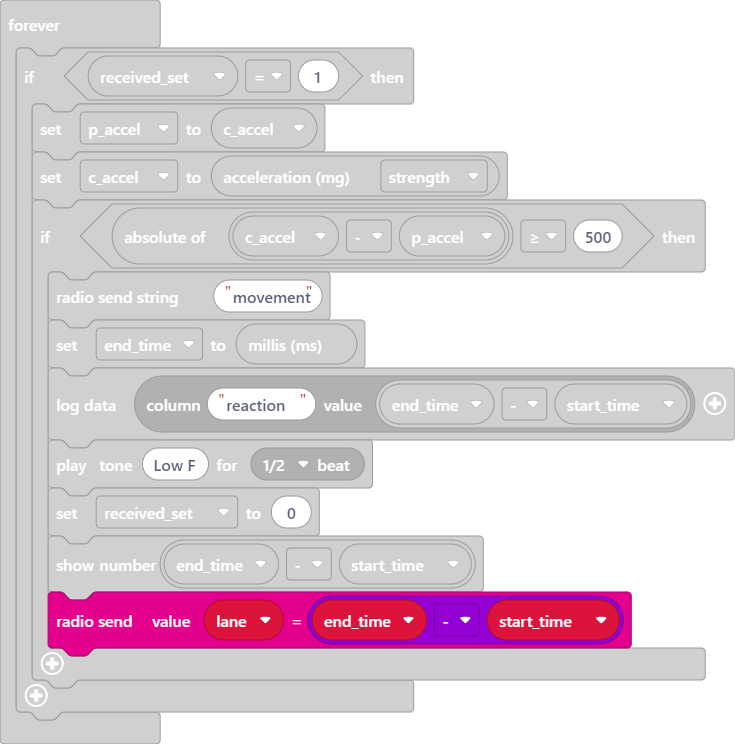
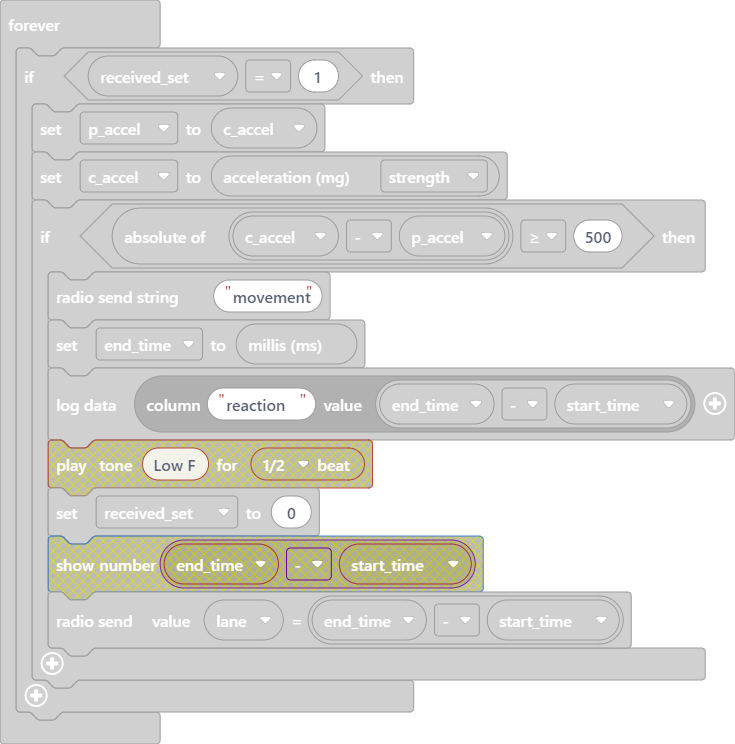
Update main.blocks, main.ts

Changed region(s): [[0.0599, 0.711, 0.868, 0.8965], [0.0599, 0.5874, 0.5088, 0.6801]]

diff --git a/main.ts b/main.ts
@@ -61,9 +61,7 @@ basic.forever(function () {
             radio.sendString("movement")
             end_time = control.millis()
             datalogger.log(datalogger.createCV("reaction", end_time - start_time))
-            music.playTone(175, music.beat(BeatFraction.Half))
             received_set = 0
-            basic.showNumber(end_time - start_time)
             radio.sendValue(lane, end_time - start_time)
         }
     }
